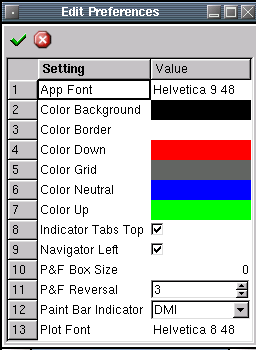
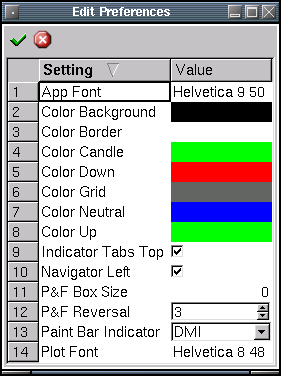
*** empty log message ***

diff --git a/docs/preferences.html b/docs/preferences.html
@@ -20,6 +20,8 @@ edit are:</p>
   <li>Color Background - Background color used for all charts.</li>
   <li>Color Border - Color used for drawing text, ticks, lines and
 specific areas on a chart eg. date area</li>
+  <li>Color Candle - Color used for Candle charts.<br>
+  </li>
   <li>Color Down - Any down day bars located on the main chart.</li>
   <li>Color Grid - Color used for the grid used on all charts.</li>
   <li>Color Neutral - Any no change day bars located on the main chart.</li>
@@ -37,12 +39,12 @@ is 3.<br>
   <li>Paint Bar Indicator - Used only for the paint bar chart type. In
 order to plot, you must select an active indicator from the list,
 otherwise the plot will be neutral.</li>
-  <li>Plot Font - Font used for the charts.<br>
-  </li>
+  <li>Plot Font - Font used for the charts.</li>
 </ul>
+<br>
 <p></p>
-<p><img src="preferences.png" alt=""
- style="width: 256px; height: 350px;"><br>
+<p><img style="width: 281px; height: 376px;" alt=""
+ src="preferences.png"><br>
 </p>
 <p></p>
 <p></p>
